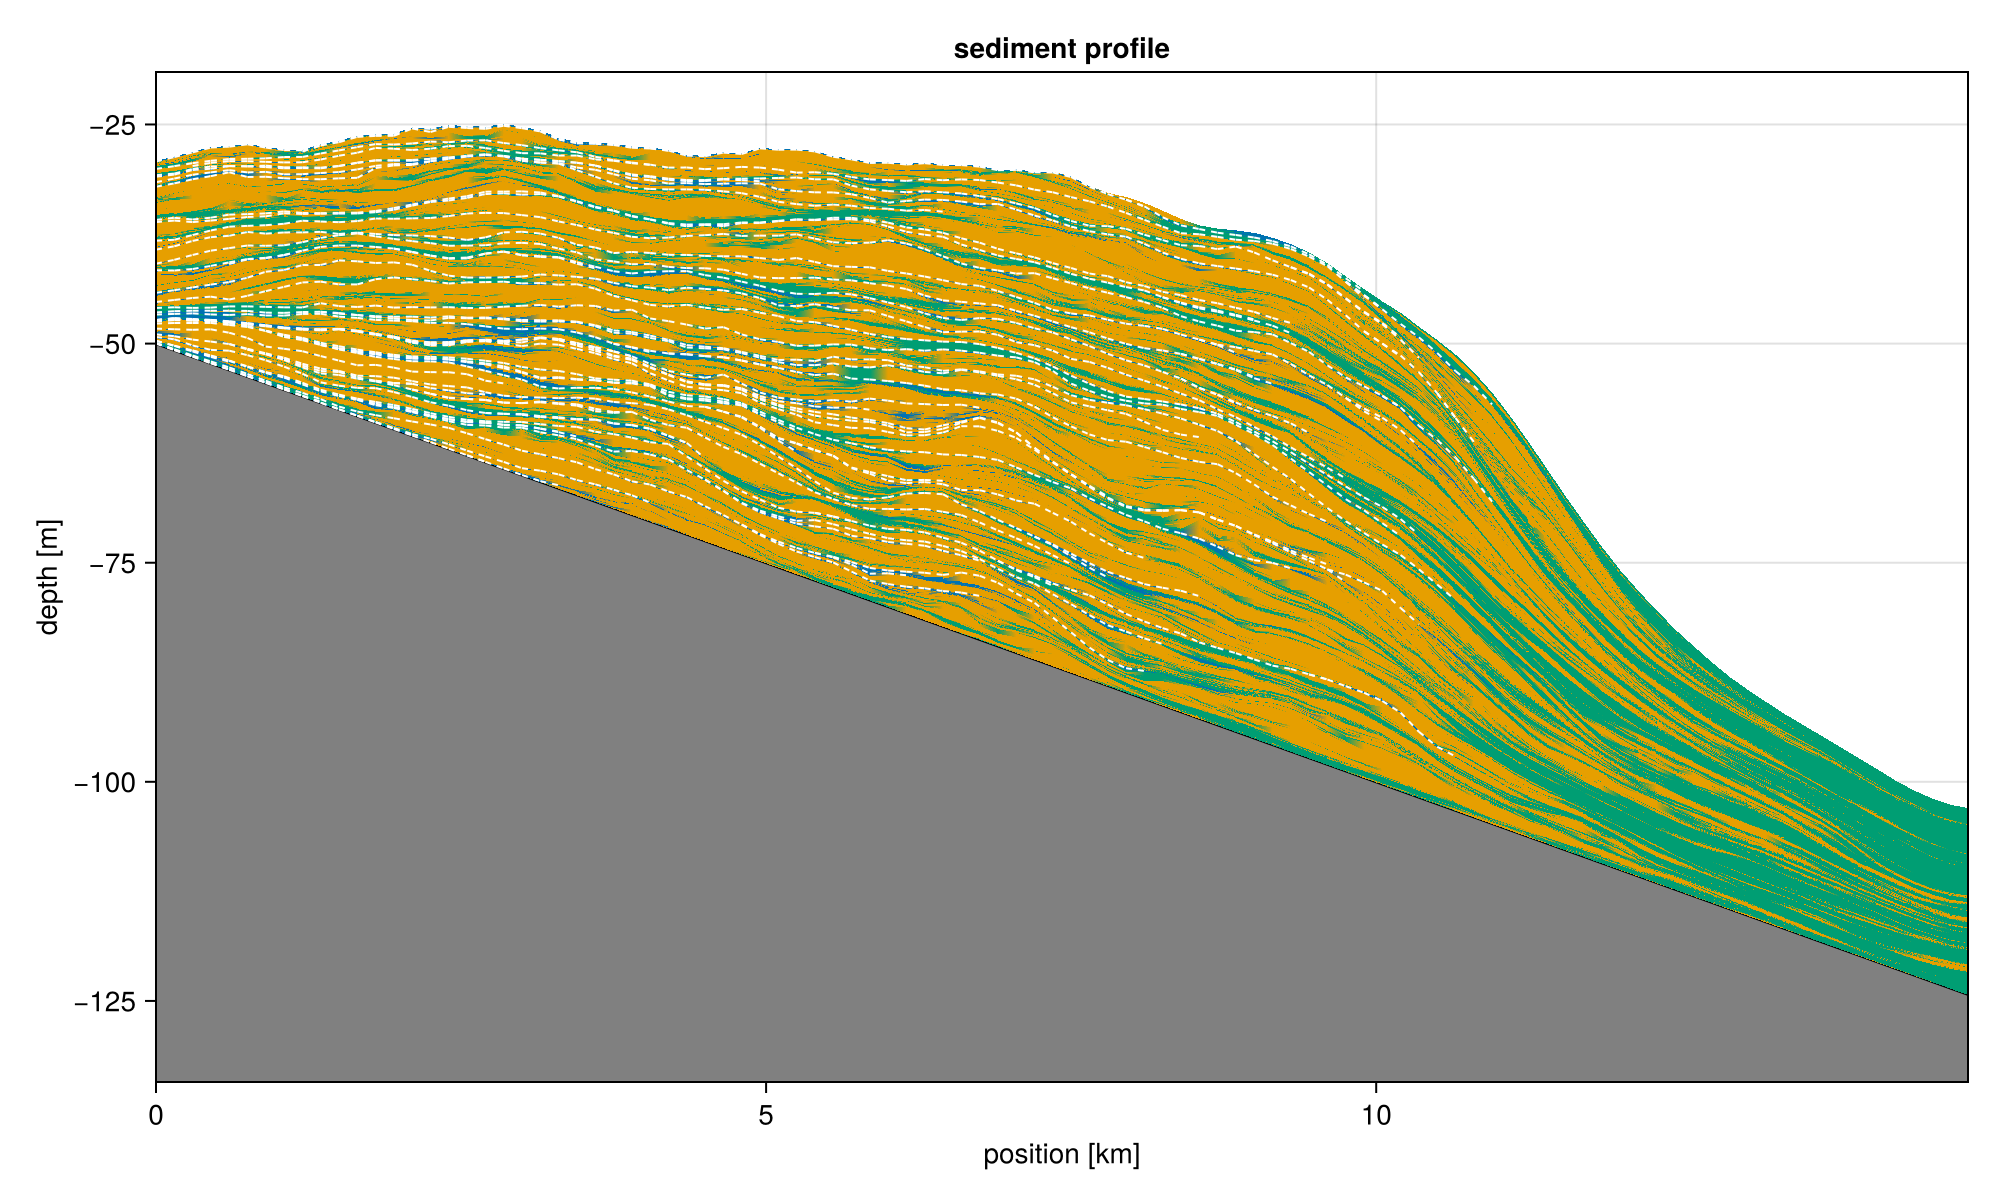
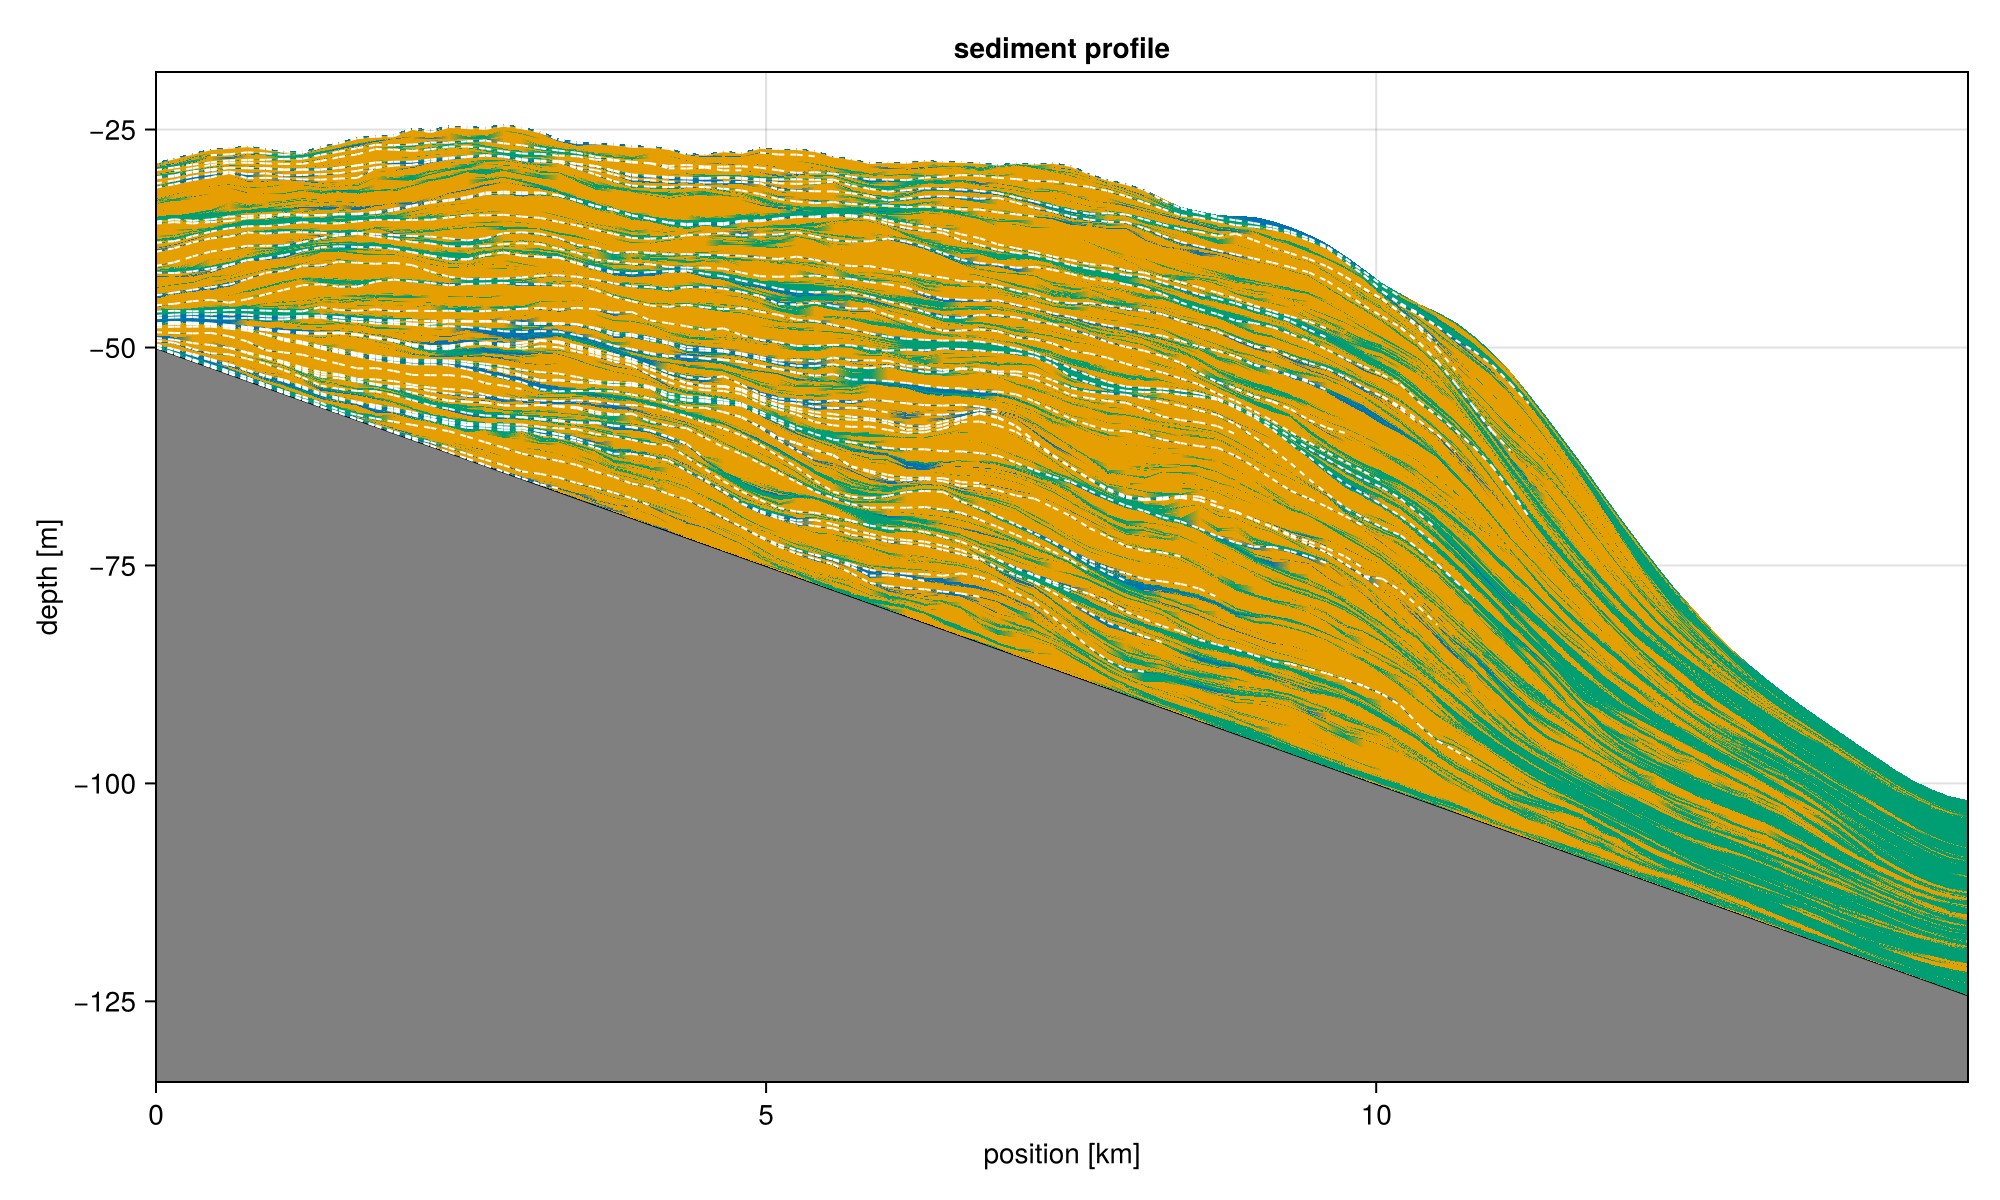
complete the insolation

Changed region(s): [[0.031, 0.0925, 0.992, 0.8017]]

diff --git a/md/paper.md b/md/paper.md
@@ -241,7 +241,7 @@ const INPUT = ALCAP.Input(
         :profile => OutputSpec(slice=(:, 25), write_interval=1)),
     subsidence_rate=50.0u"m/Myr",
     disintegration_rate=50.0u"m/Myr",
-    insolation=400.0u"W/m^2",
+    insolation=500.0u"W/m^2",
     sediment_buffer_size=50,
     depositional_resolution=0.5u"m",
     facies=FACIES)
@@ -270,7 +270,7 @@ Figure: Platform generated using the sea level curve of Lisiecki et al. (2005).
 
 We use insolation of 400 $W/m^2$, which is approximately equivalent to 2000 $μE m^{−2}⋅s^{−1}$ used by @Bosscher1992. This is representative of insolation on the sea surface at midday in the tropics. However, insolation varies with the position of the Earth with respect to the Sun and on geological timescales this variation may affect the patterns of sediment production. 
 
-Incoming Solar Radiation can be used as an input vector to modulate production. CarboKitten.jl is agnostic with respect to the source of this information. As an example, here we use the daily mean insolation on June solstice, calculated using the astronomical solution by @laskar_long-term_2004, obtained through the R package `palinsol` [@Crucifix_palinsol]. Here we obtain it for the coming million year (starting in 1950, which is when the astronomical solution starts) at the 25° N latitude and use the total solar irradiance value of 1361 $kW m^{-2}$.
+Incoming Solar Radiation can be used as an input vector to modulate production. CarboKitten.jl is agnostic with respect to the source of this information. As an example, here we use the daily mean insolation on June solstice, calculated using the astronomical solution by @laskar_long-term_2004, obtained through the R package `palinsol` [@Crucifix_palinsol]. Here we obtain it for the coming million year (starting in 1950, which is when the astronomical solution starts) at the 25° N latitude and use the total solar irradiance value of 1361 $kW m^{-2}$. Variation in solar irradiance is so small that it would hardly manifest itself if linearly propagated to the sea level curve. A universal transfer function describing the relationship between insolation and sea level does not exist. For the purpose of illustrating the functionality of the model, we calculate the sea level as an amplified insolation value. The amplification is chosen arbitrarily as the square of the insolation anomaly, with the anomaly being the deviation from mean irradiation.
 
 ``` r
 #| file: runs/extract_insolation.R
@@ -280,10 +280,10 @@ if (!require("palinsol")) {
 }
 
 library(palinsol)
-time_start <- 5e5  
-time_end <- 0      
-time_step <- 2e2  
-times <- seq(time_end, time_start, time_step)
+time_end <- 500000    
+time_start <- 0   
+time_step <- 200 
+times <- seq(time_start, time_end, time_step)
 param_la04 = t(sapply(times, function(t) astro(t, solution = la04, degree = TRUE)))
 orbit <- list()
 insolation <- list()
@@ -310,6 +310,7 @@ write.csv(insolation, file="data/insolation.csv", sep=",", row.names = FALSE)
 ```
 The insolation file can be read into CarboKitten file defining the model to be run. The alternative is calling R directly from Julia using `RCall.jl`.
 
+::: hide
 ``` julia
 #| file: runs/insolation_run.jl
 
@@ -321,6 +322,7 @@ using Unitful
 using Interpolations
 using CairoMakie
 using CarboKitten.Visualization: sediment_profile
+using Statistics
 
 function import_insolation(file::String)
     dir = "data"
@@ -336,7 +338,8 @@ const TIME_PROPERTIES = TimeProperties(
 )
 
 function get_insolation(times::Vector, insolation::Vector)
-	linear_interpolation(times,insolation)
+	interpolator = linear_interpolation(times, insolation)
+    return t -> interpolator(ustrip(u"yr", t)) * u"W/m^2"
 end
 
 const TAG = "insolation-future"
@@ -368,18 +371,26 @@ const FACIES = [
 const time_vector = collect(time_axis(TIME_PROPERTIES)) / u"yr" .|> NoUnits
 const insolation_vector = import_insolation("insolation.csv")
 
+function get_sea_level(times::Vector, insolation::Vector)
+    insolation_anomaly = (insolation .- mean(insolation)) ./ mean(insolation)
+    sea_level_anomaly = -(100 .* (insolation_anomaly)) .^ 2
+    sea_level_values = -100.0 .+ sea_level_anomaly
+    interpolator = linear_interpolation(times, sea_level_values)
+    return t -> interpolator(ustrip(u"yr", t)) * u"m"
+end
+
 const INPUT = ALCAP.Input(
     tag="$TAG",
     box=CarboKitten.Box{Coast}(grid_size=(100, 50), phys_scale=150.0u"m"),
     time=TIME_PROPERTIES,
     ca_interval=1,
     initial_topography=(x, y) -> -x / 200.0 - 100.0u"m",
-    sea_level = _-> 0.0*u"m",
+    sea_level = get_sea_level(time_vector, insolation_vector),
         output=Dict(
         :profile => OutputSpec(slice=(:, 25), write_interval=1)),
     subsidence_rate=50.0u"m/Myr",
     disintegration_rate=50.0u"m/Myr",
-    insolation= get_insolation(time_vector, insolation_vector) .* u"W/m^2",
+    insolation= get_insolation(time_vector, insolation_vector),
     sediment_buffer_size=50,
     depositional_resolution=0.5u"m",
     facies=FACIES)
@@ -398,6 +409,11 @@ end
 result = Insolation.main()
 Insolation.plot(result)
 ```
+:::
+
+![ALCAPS with variable SL and insolation](fig/variable-insolation.png){width=100%}
+
+Figure: Platform generated using the daily mean insolation during June solstice at the 25° N latitude for a period of 1 Myr starting in 1950 and using a sea level curve obtained by amplifying the insolation values.
 
 ## Cellular Automaton
 
